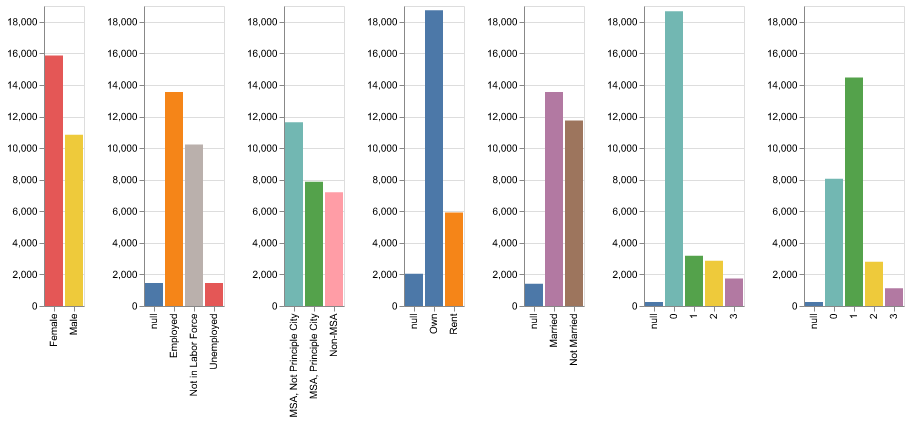
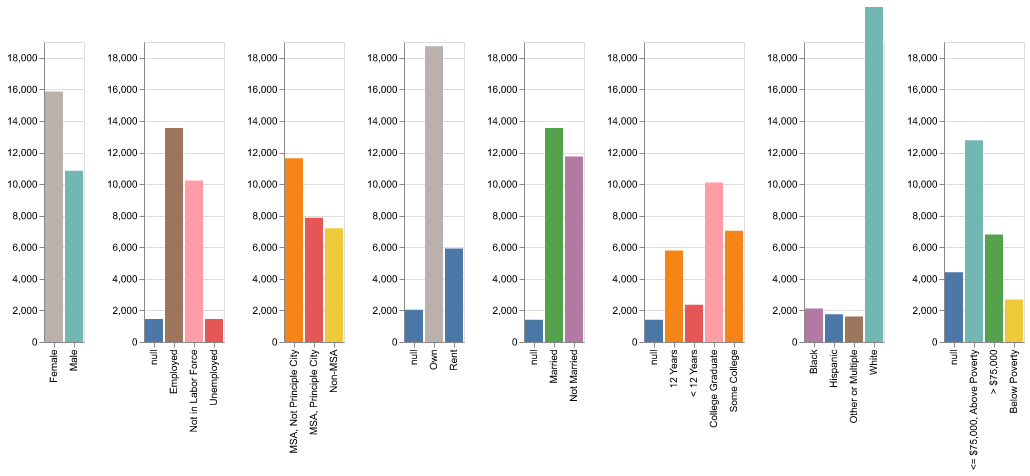
Explore features, add comments and recommendations for the model.

diff --git a/01 Driven Data - Flu Shot/src/flu_shot_data.py b/01 Driven Data - Flu Shot/src/flu_shot_data.py
@@ -20,6 +20,7 @@ FILE_BARCHART_FEATURES_HEALTH = '../fig/features_bar_chart_health.png'
 FILE_BARCHART_FEATURES_PERSONAL = '../fig/features_bar_chart_personal.png'
 FILE_BARCHART_FEATURES_EMPLOYMENT = '../fig/features_bar_chart_employment.png'
 FILE_BARCHART_FEATURES_POPULATION = '../fig/features_bar_chart_population_pyramid.png'
+FILE_BARCHART_FEATURES_HOUSEHOLD = '../fig/features_bar_chart_household.png'
 
 class FluShotData:
     """
@@ -153,7 +154,7 @@ class FluShotData:
         self.plot_stacked_bar_behaviour_medical_personal(df_train)
         self.plot_diverging_stacked_bar(df_train)
         self.plot_bar_random_namings(df_train)
-        self.plot_age(df_train)
+        self.plot_population_pyramid(df_train)
 
     def plot_diverging_stacked_bar(self, df):
         """
@@ -246,14 +247,13 @@ class FluShotData:
 
         bar_chart.save(FILE_BARCHART_FEATURES_SENTIMENT)
 
-    def plot_age(self, df):
+    def plot_population_pyramid(self, df):
 
         # Group data by age and sex, count all instances
         df = df.groupby(['age_group', 'sex'])['respondent_id'].count().reset_index()
         df = df.rename(columns={'respondent_id': 'counts', 'sex':'gender', 'age_group':'age'})
 
-        print(df)
-
+        # Plot chart
         base = alt.Chart(df).properties(
             width=250
         )
@@ -320,10 +320,8 @@ class FluShotData:
 
         chart_occupation = plot_inner_chart(df_employment_occupation, 'Type of occupation of respondent')
         chart_industry = plot_inner_chart(df_employment_industry, 'Type of industry respondent is employed in')
-
-        # ---------------
-        chart = chart_occupation | chart_industry
-        chart.save(FILE_BARCHART_FEATURES_EMPLOYMENT)
+        chart_employment = chart_occupation | chart_industry
+        chart_employment.save(FILE_BARCHART_FEATURES_EMPLOYMENT)
 
     def plot_stacked_bar_behaviour_medical_personal(self, df):
         """
@@ -387,6 +385,15 @@ class FluShotData:
         df25 = df['sex'].value_counts().rename_axis('value').reset_index(name='counts')
         df25['feature'] = 'sex'
 
+        df_household_children = df['household_children'].value_counts().rename_axis('value').reset_index(name='counts')
+        df_household_children['feature'] = 'household_children'
+        df_household_adults = df['household_adults'].value_counts().rename_axis('value').reset_index(name='counts')
+        df_household_adults['feature'] = 'household_adults'
+
+        # Dataframe for household features
+        dfs_household = [df_household_children, df_household_adults]
+        source_household = functools.reduce(lambda left, right: pd.concat([left, right]), dfs_household)
+
         # Dataframe for health-related features
         dfs_health = [df18, df19, df20, df21]
         source_health = functools.reduce(lambda left, right: pd.concat([left, right]), dfs_health)
@@ -419,13 +426,15 @@ class FluShotData:
         bar_empl_status = plot_inner_chart('employment_status')
         bar_rent_or_own = plot_inner_chart('rent_or_own')
         bar_marital_status = plot_inner_chart('marital_status')
-        bar_household_children = plot_inner_chart('household_children')
-        bar_household_adults = plot_inner_chart('household_adults')
+        bar_education = plot_inner_chart('education')
+        bar_race = plot_inner_chart('race')
+        bar_income = plot_inner_chart('income_poverty')
 
-        chart = bar_sex | bar_empl_status | bar_census_msa | bar_rent_or_own | bar_marital_status | bar_household_children | bar_household_adults
+        chart = bar_sex | bar_empl_status | bar_census_msa | bar_rent_or_own | bar_marital_status | bar_education | bar_race | bar_income
         chart.save(FILE_BARCHART_FEATURES_PERSONAL)
 
-        # Population pyramid --------------------
+        # TODO : create a chart for household
+        #
 
         # Chart for health features -------------
         bars_health = alt.Chart(source_health, title='Other information about respondents').mark_bar().encode(
@@ -481,17 +490,7 @@ class FluShotData:
         bars_medical.save(FILE_BARCHART_FEATURES_DOCTOR_REC)
 
         # Chart for behavioural --------------
-
-        behavioural_color_scale = alt.Scale(
-            domain=[
-                "No",
-                "No response",
-                "Yes",
-            ],
-            range=["#c30d24", "#cccccc", "#1770ab"],
-        )
-
-        bars_behavioural = alt.Chart(source_behavioral, title='Behavioral').mark_bar().encode(
+        bars_behavioural = alt.Chart(source_behavioral).mark_bar().encode(
             x=alt.X('counts:Q').title(''),
             y=alt.Y(
                 'feature:N', axis=alt.Axis(labelLimit=380),
@@ -513,6 +512,8 @@ class FluShotData:
         ).configure_view(
             strokeWidth=0
         )
+
+        bars_behavioural.save(FILE_BARCHART_FEATURES_BEHAVIOURAL)
 
     def explore_labels(self, df):
         """
